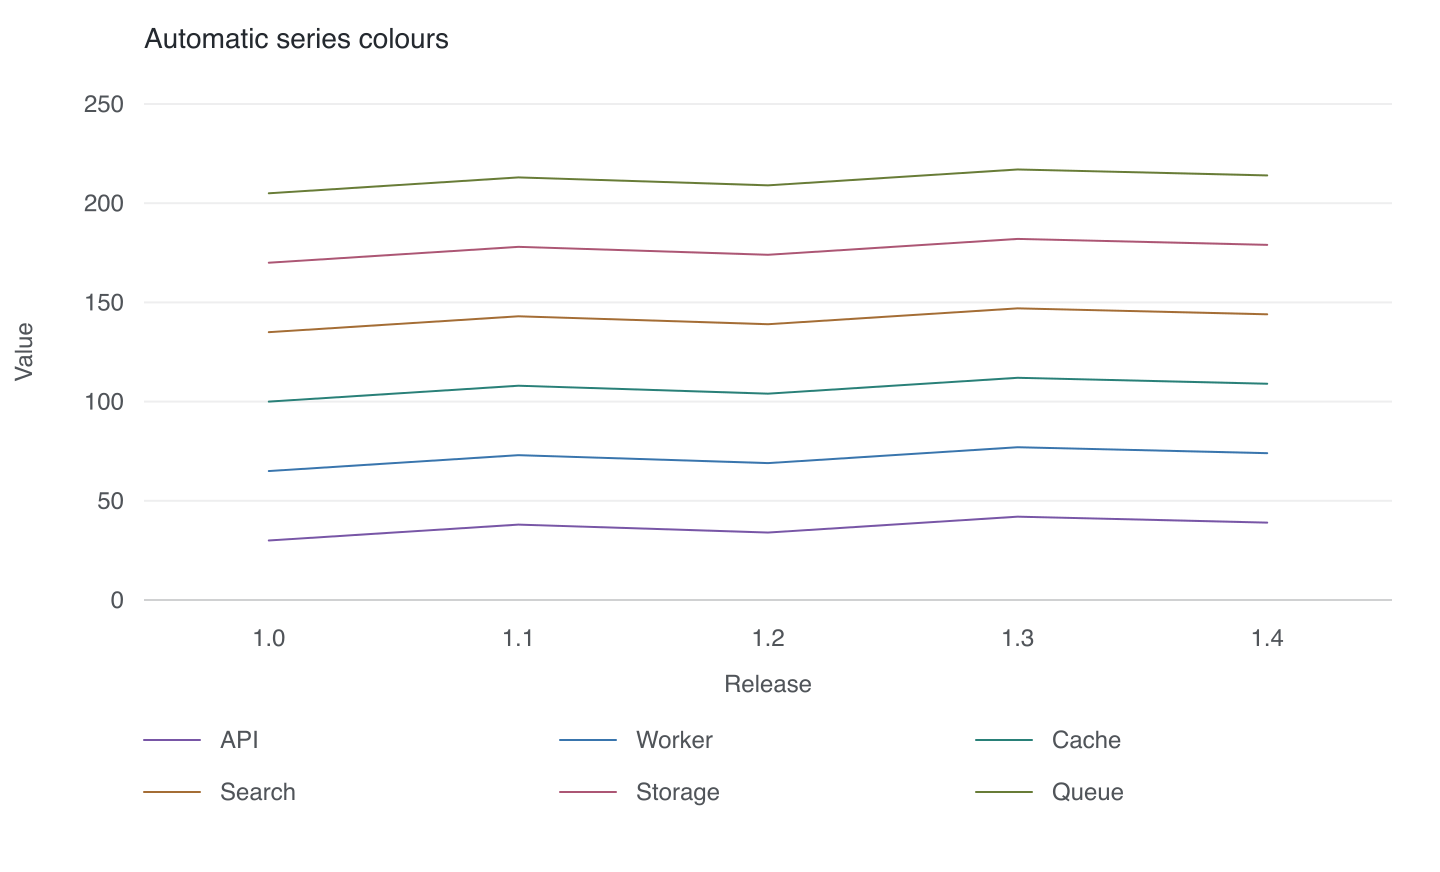
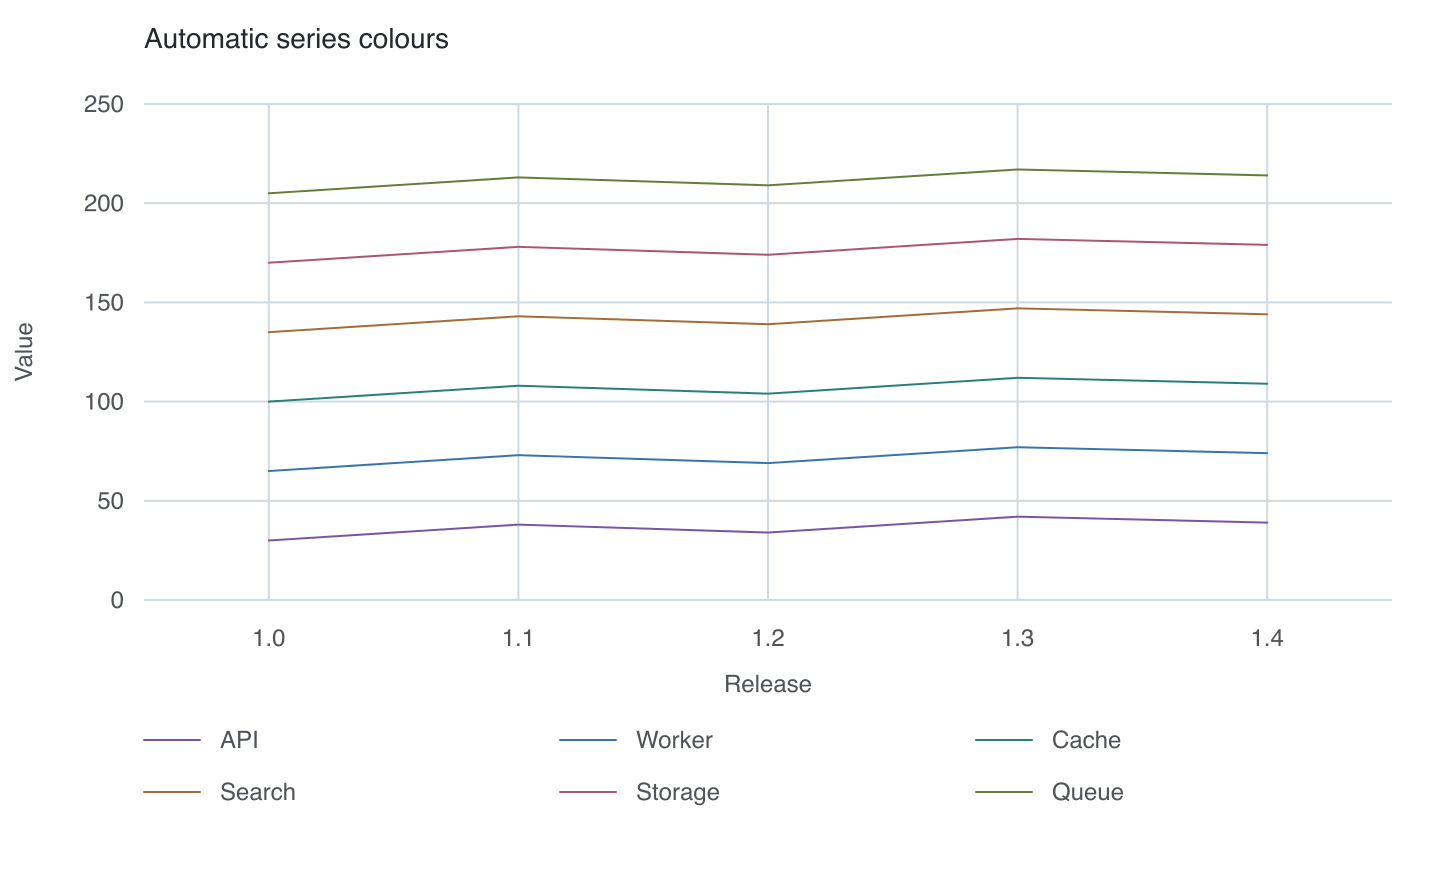
Make open-sided table grid the default chart design

diff --git a/tests/presentation.test.tsx b/tests/presentation.test.tsx
@@ -32,19 +32,36 @@ describe('document presentation', () => {
     expect(new Set(colors).size).toBe(20);
   });
   it('supports grid modes through Markdown syntax', () => {
-    for (const grid of ['horizontal', 'paper', 'none']) {
+    for (const grid of ['both', 'horizontal', 'paper', 'none']) {
       const d = parseChart(
         `type: line\ngrid: ${grid}\n| X | Y |\n| --- | --- |\n| A | 1 |`,
       );
       const html = renderToStaticMarkup(<Chart definition={d} />);
       expect(html.includes('class="chartmd__paper"')).toBe(grid === 'paper');
       expect(html.includes('class="chartmd__grid"')).toBe(grid !== 'none');
+      expect(html.includes('data-grid="vertical"')).toBe(grid === 'both');
     }
     expect(() =>
       parseChart(
         'type: line\ngrid: invalid\n| X | Y |\n| --- | --- |\n| A | 1 |',
       ),
     ).toThrow('grid must');
+  });
+  it('defaults to an open-sided grid aligned to category centres, for lines and bars', () => {
+    for (const type of ['line', 'bar'] as const) {
+      const html = renderToStaticMarkup(
+        <Chart definition={{ ...definition, type }} />,
+      );
+      const verticals = [
+        ...html.matchAll(/<line[^>]*data-grid="vertical"[^>]*>/g),
+      ].map((m) => m[0]);
+      expect(verticals).toHaveLength(2);
+      expect(verticals[0]).toContain('x1="228" x2="228"');
+      expect(verticals[1]).toContain('x1="540" x2="540"');
+      expect(html).not.toContain('chartmd__axis');
+      expect(html).not.toMatch(/<line[^>]*x1="72" x2="72"/);
+      expect(html).not.toMatch(/<line[^>]*x1="696" x2="696"/);
+    }
   });
   it('keeps exact values accessible and supports percentage formatting', () => {
     const html = renderToStaticMarkup(

diff --git a/src/chart.tsx b/src/chart.tsx
@@ -58,7 +58,8 @@ function validate(value: unknown): asserts value is ChartDefinition {
         ),
     ) ||
     [d.title, d.x, d.y].some((v) => v !== undefined && typeof v !== 'string') ||
-    (d.grid !== undefined && !['horizontal', 'paper', 'none'].includes(d.grid))
+    (d.grid !== undefined &&
+      !['both', 'horizontal', 'paper', 'none'].includes(d.grid))
   )
     throw new Error('Invalid chart definition');
 }
@@ -230,13 +231,30 @@ export function Chart({
           </text>
         </g>
       ))}
-      <line
-        className="chartmd__axis"
-        x1={left}
-        x2={width - 24}
-        y1={y(0)}
-        y2={y(0)}
-      />
+      {(d.grid === undefined || d.grid === 'both') &&
+        d.labels.map(
+          (_, i) =>
+            i % stride === 0 && (
+              <line
+                key={`vertical-${i}`}
+                className="chartmd__grid"
+                data-grid="vertical"
+                x1={x(i)}
+                x2={x(i)}
+                y1={top}
+                y2={bottom}
+              />
+            ),
+        )}
+      {d.grid === 'none' && (
+        <line
+          className="chartmd__axis"
+          x1={left}
+          x2={width - 24}
+          y1={y(0)}
+          y2={y(0)}
+        />
+      )}
       {d.series.map((s, si) => (
         <g
           key={si}

diff --git a/style.css b/style.css
@@ -1,4 +1,5 @@
 .chartmd {
+  --chartmd-default-grid-color: #d1d9e0;
   display: block;
   inline-size: 100%;
   max-inline-size: 100%;
@@ -20,6 +21,7 @@
 }
 @media (prefers-color-scheme: dark) {
   .chartmd {
+    --chartmd-default-grid-color: #3d444d;
     --chartmd-series-1: #b29ad6;
     --chartmd-series-2: #79add5;
     --chartmd-series-3: #6bb6aa;
@@ -29,6 +31,7 @@
   }
 }
 [data-theme='dark'] .chartmd {
+  --chartmd-default-grid-color: #3d444d;
   --chartmd-series-1: #b29ad6;
   --chartmd-series-2: #79add5;
   --chartmd-series-3: #6bb6aa;
@@ -37,6 +40,7 @@
   --chartmd-series-6: #a9bc7a;
 }
 [data-theme='light'] .chartmd {
+  --chartmd-default-grid-color: #d1d9e0;
   --chartmd-series-1: #7856a6;
   --chartmd-series-2: #3975ad;
   --chartmd-series-3: #298078;
@@ -46,15 +50,15 @@
 }
 .chartmd__grid,
 .chartmd__axis {
-  stroke: currentColor;
-  stroke-width: 1;
+  stroke: var(--chartmd-grid-color, var(--chartmd-default-grid-color));
+  stroke-width: var(--chartmd-grid-width, 1);
   vector-effect: non-scaling-stroke;
 }
 .chartmd__grid {
-  opacity: var(--chartmd-grid-opacity, 0.08);
+  opacity: var(--chartmd-grid-opacity, 1);
 }
 .chartmd__axis {
-  opacity: 0.15;
+  opacity: var(--chartmd-grid-opacity, 1);
 }
 .chartmd__paper {
   opacity: var(--chartmd-paper-opacity, 0.07);

diff --git a/src/parser.ts b/src/parser.ts
@@ -175,9 +175,9 @@ export function parseChart(source: string): ChartDefinition {
   if (metadata.x) definition.x = metadata.x;
   if (metadata.y) definition.y = metadata.y;
   if (metadata.grid) {
-    if (!['horizontal', 'paper', 'none'].includes(metadata.grid)) {
+    if (!['both', 'horizontal', 'paper', 'none'].includes(metadata.grid)) {
       throw new ChartSyntaxError(
-        'grid must be “horizontal”, “paper”, or “none”',
+        'grid must be “both”, “horizontal”, “paper”, or “none”',
       );
     }
     definition.grid = metadata.grid as NonNullable<ChartDefinition['grid']>;

diff --git a/src/types.ts b/src/types.ts
@@ -10,7 +10,7 @@ export interface ChartDefinition {
   title?: string;
   x?: string;
   y?: string;
-  grid?: 'horizontal' | 'paper' | 'none';
+  grid?: 'both' | 'horizontal' | 'paper' | 'none';
   labels: string[];
   series: ChartSeries[];
 }

diff --git a/README.md b/README.md
@@ -15,9 +15,15 @@ React is a peer dependency. No browser charting library is required.
 
 ## Appearance
 
-Version 0.4 uses plain 1 px lines, automatically assigned muted colours, inherited typography,
+Version 0.5 uses plain 1 px lines, automatically assigned muted colours, inherited typography,
 and readable numeric ticks. The chart background is transparent. No point
 symbols or dash patterns are added by default.
+
+The default grid has horizontal value guides and vertical guides aligned to
+visible X-axis labels. All guides use the same 1 px neutral grey as GitHub-style
+Markdown table borders, with no left or right border enclosing the plot.
+Markdown itself does not define colours: set `--chartmd-grid-color` to match
+your renderer's table border if it uses a different theme.
 
 ### Automatic series colours
 
@@ -30,11 +36,12 @@ Accessible descriptions retain series names and exact values.
 
 ![Automatic series colours](https://raw.githubusercontent.com/leracherry/chart.md/main/docs/chart-styles.png)
 
-### Optional paper grid
+### Grid options
 
 Add `grid: paper` inside the chart fence for a faint square grid. The squares
 are decorative; axis labels define the measurement scale. Use `grid: none` for
-an uncluttered plot, or `grid: horizontal` for the default horizontal guides.
+an uncluttered plot, or `grid: horizontal` for horizontal guides only.
+Omit `grid` or write `grid: both` for the default open-sided, two-axis grid.
 
 ![Paper grid](https://raw.githubusercontent.com/leracherry/chart.md/main/docs/chart-paper.png)
 
@@ -95,13 +102,13 @@ page with prose, a chart, and follow-up notes.
 The first table column supplies the labels. Every remaining column becomes a
 numeric series.
 
-| Property | Required | Description                                |
-| -------- | -------- | ------------------------------------------ |
-| `type`   | Yes      | `bar` or `line`                            |
-| `title`  | No       | Accessible chart title and visible heading |
-| `x`      | No       | Horizontal-axis label                      |
-| `y`      | No       | Vertical-axis label                        |
-| `grid`   | No       | `horizontal` (default), `paper`, or `none` |
+| Property | Required | Description                                        |
+| -------- | -------- | -------------------------------------------------- |
+| `type`   | Yes      | `bar` or `line`                                    |
+| `title`  | No       | Accessible chart title and visible heading         |
+| `x`      | No       | Horizontal-axis label                              |
+| `y`      | No       | Vertical-axis label                                |
+| `grid`   | No       | `both` (default), `horizontal`, `paper`, or `none` |
 
 Values may be positive, negative, or zero. Table rows require the same number
 of cells as the header, and series names must be unique. Invalid input fails
@@ -126,7 +133,8 @@ Both backtick and tilde Markdown fences are supported.
 
 ## Theme inheritance
 
-Labels and guides use `currentColor` to follow the surrounding Markdown theme.
+Labels use `currentColor` to follow the surrounding Markdown theme. Grid rules
+use light grey (`#d1d9e0`) or dark grey (`#3d444d`) according to the theme.
 Series colours are automatic and can be overridden with `--chartmd-series-1`,
 `--chartmd-series-2`, and so on, set on `.chartmd`.
 
@@ -134,7 +142,8 @@ Series colours are automatic and can be overridden with `--chartmd-series-1`,
 .markdown-body {
   color: #24292f;
   --chartmd-color: currentColor;
-  --chartmd-grid-opacity: 0.08;
+  --chartmd-grid-width: 1;
+  --chartmd-grid-opacity: 1;
   --chartmd-muted-opacity: 0.8;
   --chartmd-paper-opacity: 0.07;
   --chartmd-line-width: 1;
@@ -227,7 +236,7 @@ node scripts/render-readme-preview.mjs /tmp/chart.svg paper
 rsvg-convert --width 1440 --background-color white /tmp/chart.svg -o docs/chart-paper.png
 ```
 
-Available preview variants: `horizontal`, `paper`, `none`, `styles`, and `dark`.
+Available preview variants: `both` (default), `horizontal`, `paper`, `none`, `styles`, and `dark`.
 
 ## License
 

diff --git a/ROADMAP.md b/ROADMAP.md
@@ -13,8 +13,7 @@ native to the document rather than like embedded third-party widgets.
 - `react-markdown` integration through `remarkChart` and `chartComponents`.
 - Responsive, server-renderable SVG output with accessible titles and data
   descriptions.
-- One-colour rendering based on `currentColor`, with opacity and dash patterns
-  for series differentiation.
+- Theme-inheriting typography and accessible series descriptions.
 - Published TypeScript declarations, focused tests, and npm package metadata.
 
 Exit criteria: a consumer can install `@leracherry/chartmd` and
@@ -27,6 +26,15 @@ configuration or another charting library.
 - Transparent, horizontal-grid, and optional paper-grid presentation.
 - Readable tick intervals, exact accessible values, and locale/number formatting.
 - Rendered documentation images for default, paper, no-grid, dark, and six-series views.
+
+## 0.5 — Minimal Markdown presentation (implemented)
+
+- Automatic muted series colours, with additional generated hues.
+- Thin solid data lines without markers by default; patterns remain opt-in.
+- Open-sided horizontal and vertical grid aligned to axis labels, using the
+  same 1 px grey rules as Markdown tables. No left or right border.
+- System and explicit light/dark themes; custom grid colour and width.
+- Editable React Markdown demo and refreshed previews for every grid mode.
 
 ## Milestone 2 — Markdown ecosystem coverage
 
@@ -42,8 +50,8 @@ Remark-based React rendering paths.
 
 - Component overrides for marks, labels, legends, and tooltips.
 - Additional formatting hooks for Markdown integrations.
-- Explicit colour opt-in for teams that need multi-colour series, while keeping
-  one-colour inheritance as the default.
+- More theme integration fixtures while keeping automatic colours and neutral
+  document structure as the default.
 - Visual regression suite for light, dark, narrow, and high-contrast layouts.
 
 Exit criteria: applications can customize chart behavior deeply without

diff --git a/CHANGELOG.md b/CHANGELOG.md
@@ -1,5 +1,14 @@
 # Changelog
 
+## 0.5.0
+
+- Make an open-sided, table-style grid the default: horizontal value guides and
+  vertical guides aligned to visible category labels, with no side borders.
+- Use 1 px neutral grey rules matching GitHub-style Markdown table borders,
+  with light/dark themes and custom grid colour, width, and opacity.
+- Add explicit `grid: both`; retain `horizontal`, `paper`, and `none` options.
+- Refresh the live demo, README previews, presentation tests, and roadmap.
+
 ## 0.4.0
 
 - Assign muted purple, blue, teal, ochre, rose and olive automatically.

diff --git a/examples/chart-page.md b/examples/chart-page.md
@@ -25,5 +25,7 @@ y: Milliseconds
 - Worker response time fell from **240 ms** to **123 ms**.
 - The engine assigns purple and blue automatically, while headings, labels,
   and guides follow the document theme.
+- Thin grey guides align with both axes, like Markdown table rules, without
+  enclosing the chart in left or right borders.
 
 Open the source below to change the data or add another numeric column.
